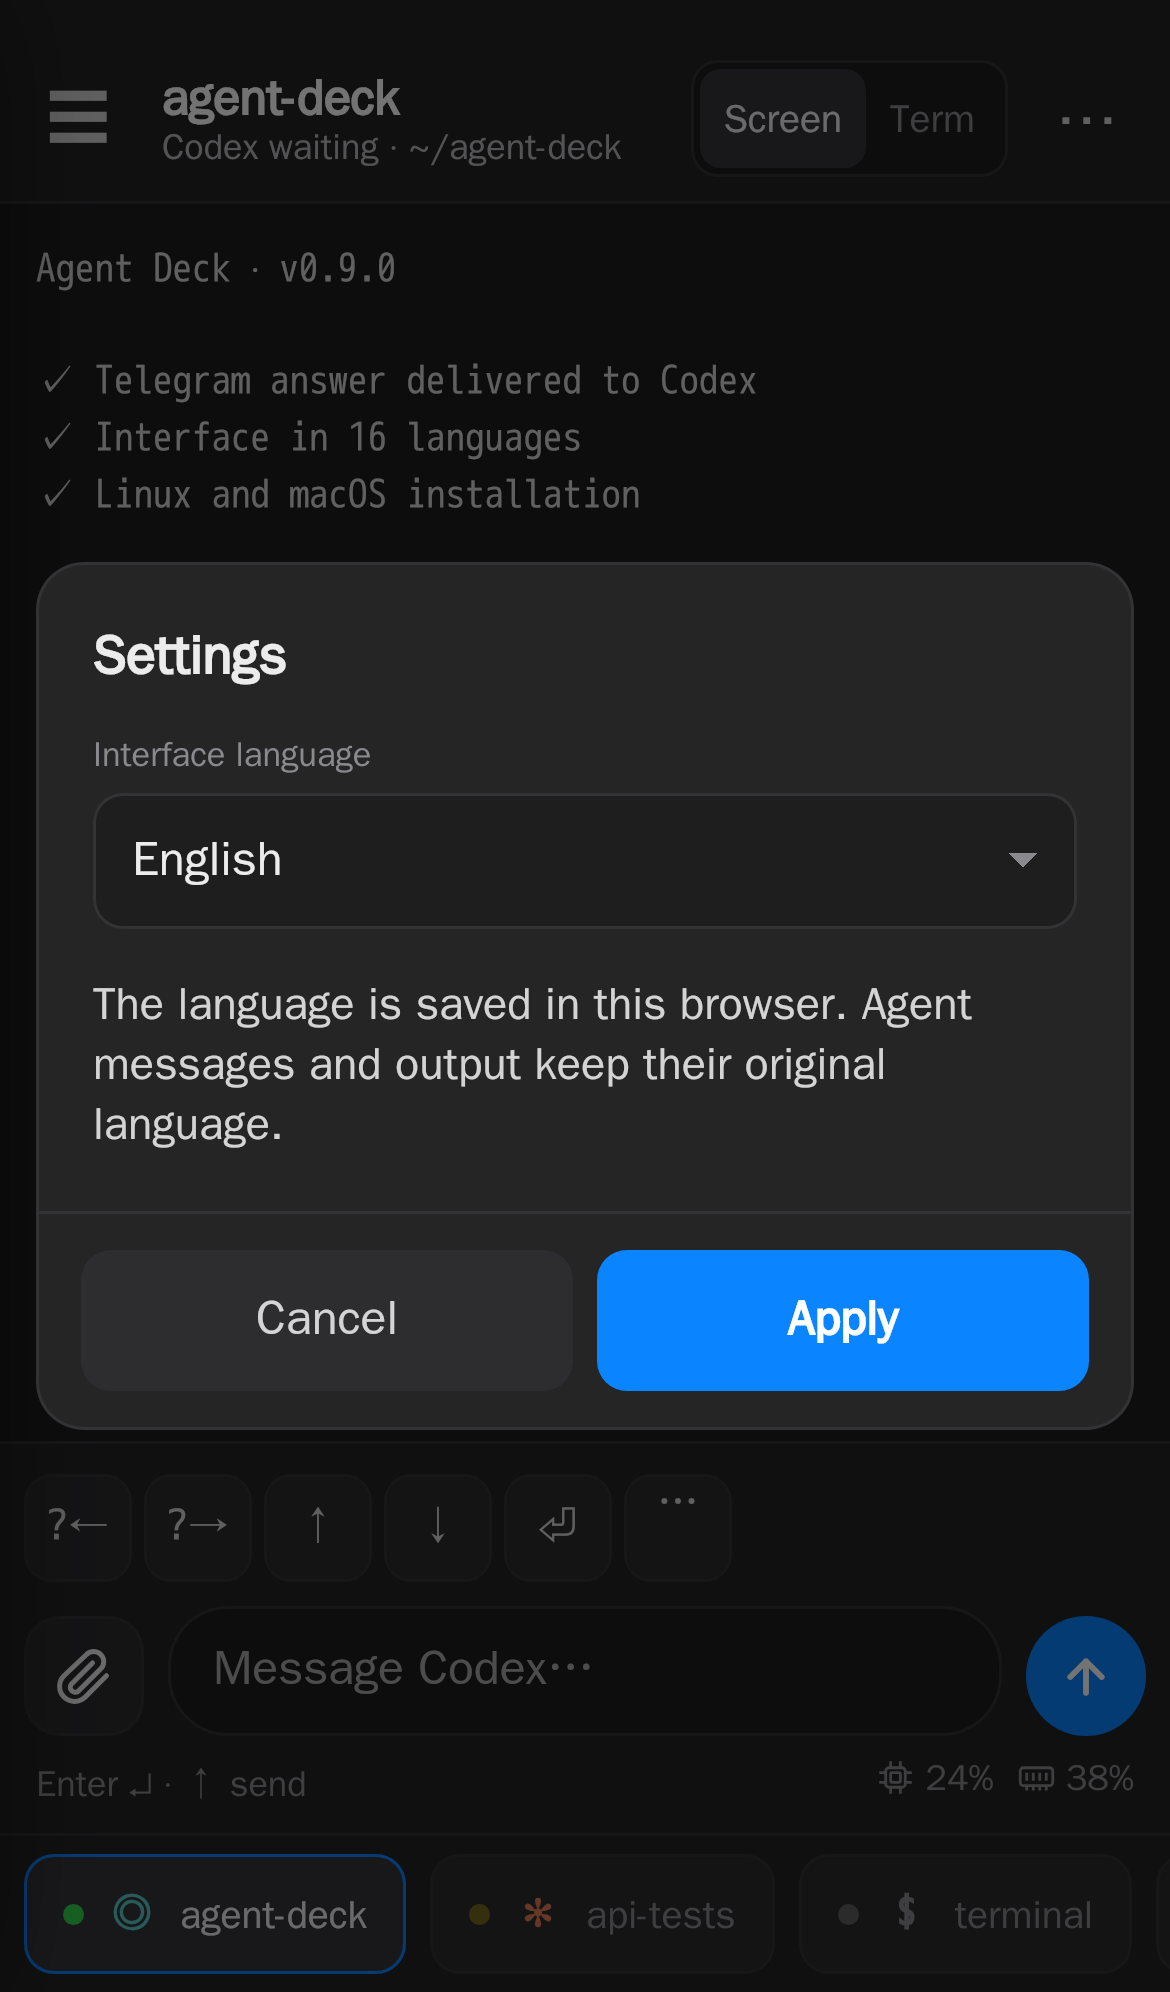
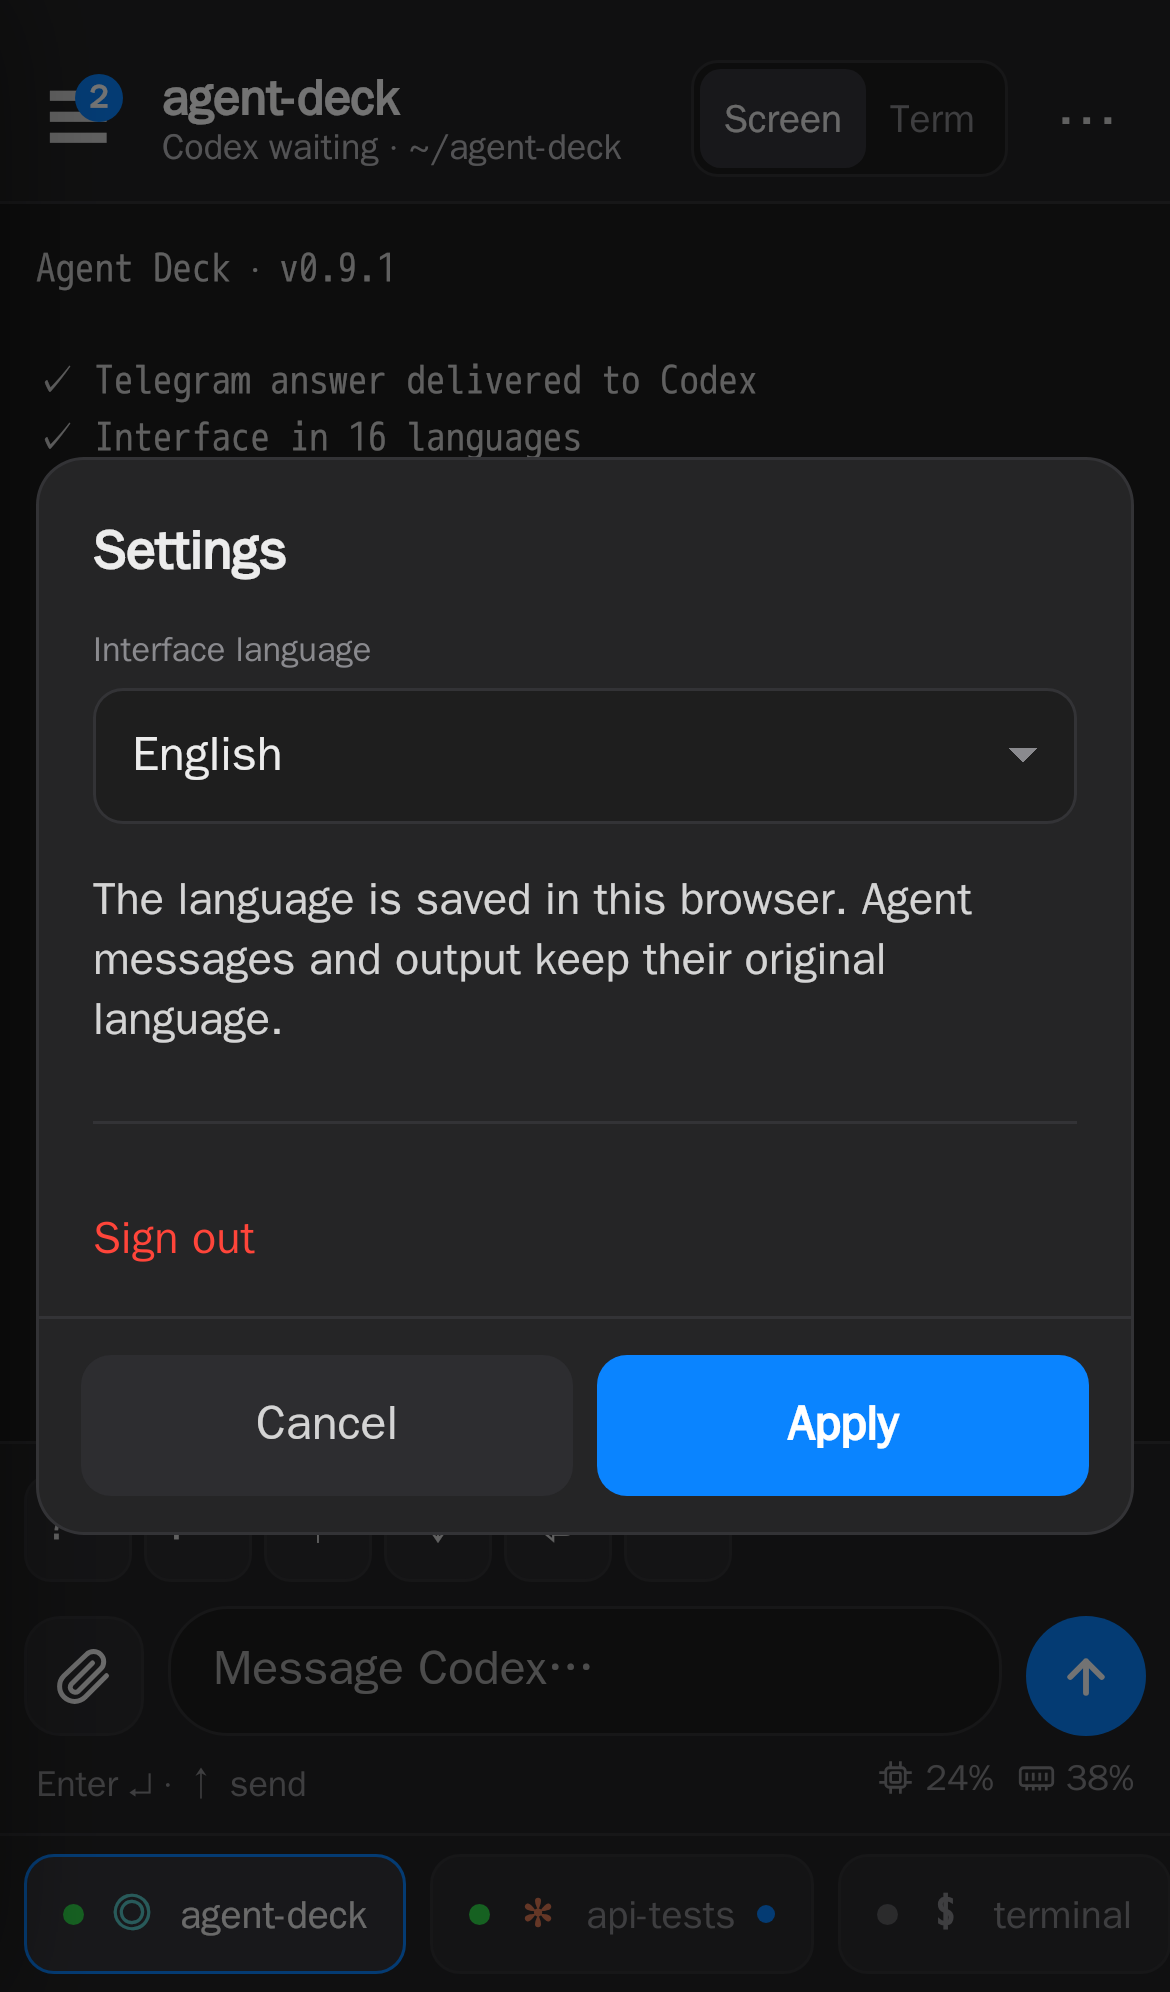
Move sign out into a separate Settings section

diff --git a/panel/index.html b/panel/index.html
@@ -190,6 +190,8 @@ dialog::backdrop{background:rgba(0,0,0,.55)}
 .acts{display:flex;justify-content:flex-end;gap:8px;padding:14px 18px;border-top:1px solid var(--bd)}
 .acts button{padding:8px 16px;border-radius:7px;background:var(--side2)}
 .acts button.pri{background:var(--acc);color:#fff;font-weight:600}
+.settings-account{margin-top:24px;padding-top:16px;border-top:1px solid var(--bd)}
+.settings-account button{min-height:44px;width:100%;text-align:left;color:var(--bad);padding:8px 0}
 .integration-card{border:1px solid var(--bd);border-radius:14px;padding:16px;background:var(--bg);margin:4px 0 14px}
 .integration-heading{display:flex;align-items:center;gap:12px}
 .integration-heading h4{margin:0;font-size:15px;font-weight:600;color:var(--fg2)}
@@ -325,7 +327,7 @@ body.is-shell .agent-only{display:none!important}
     </div>
     <div id="tabs"></div>
     <div id="integ"></div>
-    <div class="side-foot"><span id="foot"></span><span id="ver"></span><button id="b_drafts" onclick="showClosedDrafts()" style="display:none">Черновики закрытых сессий</button><button class="settingsbtn" onclick="openSettings()" aria-label="Настройки" title="Настройки">⚙</button><button onclick="logout()">Выйти</button></div>
+    <div class="side-foot"><span id="foot"></span><span id="ver"></span><button id="b_drafts" onclick="showClosedDrafts()" style="display:none">Черновики закрытых сессий</button><button class="settingsbtn" onclick="openSettings()" aria-label="Настройки" title="Настройки">⚙</button></div>
   </aside>
   <div id="scrim" onclick="drawer(false)"></div>
   <main>
@@ -432,7 +434,7 @@ body.is-shell .agent-only{display:none!important}
 
 <dialog id="settings_dlg"><form class="dlg" onsubmit="event.preventDefault();saveLanguage()">
   <div class="dlg-body"><h3>Настройки</h3><label for="ui_language">Язык интерфейса</label>
-  <select id="ui_language"></select><p>Язык сохраняется в этом браузере. Сообщения и вывод агентов не переводятся.</p></div>
+  <select id="ui_language"></select><p>Язык сохраняется в этом браузере. Сообщения и вывод агентов не переводятся.</p><div class="settings-account"><button type="button" onclick="logout()">Выйти</button></div></div>
   <div class="acts"><button type="button" onclick="$('settings_dlg').close()">Отмена</button><button class="pri">Применить</button></div>
 </form></dialog>
 <dialog id="kimi_dlg"><form class="dlg" onsubmit="event.preventDefault();saveKimi()">

diff --git a/CHANGELOG.md b/CHANGELOG.md
@@ -2,6 +2,11 @@
 
 Versions follow [semver](https://semver.org). Install a version with `sudo ./update.sh vX.Y.Z`.
 
+## 0.9.1 — 2026-10-03
+
+- Move sign out from the sidebar footer into a separate account section in Settings
+  to avoid accidental taps beside the settings button on phones.
+
 ## 0.9.0 — 2026-10-03
 
 - Add complete interface catalogs for Spanish, Brazilian Portuguese, German, French,
